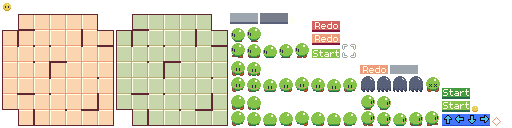
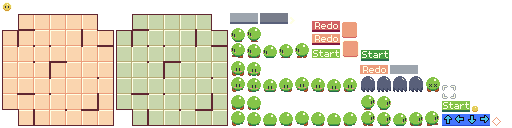
level select init

Changed region(s): [[0.6562, 0.1562, 0.7812, 0.5], [0.8438, 0.6562, 0.9375, 0.7812]]

diff --git a/core/src/main/java/com/distraction/glj9/screens/LevelSelectScreen.java b/core/src/main/java/com/distraction/glj9/screens/LevelSelectScreen.java
@@ -1,0 +1,122 @@
+package com.distraction.glj9.screens;
+
+import com.badlogic.gdx.Gdx;
+import com.badlogic.gdx.Input;
+import com.badlogic.gdx.graphics.Color;
+import com.badlogic.gdx.graphics.g2d.BitmapFont;
+import com.badlogic.gdx.graphics.g2d.GlyphLayout;
+import com.badlogic.gdx.graphics.g2d.TextureRegion;
+import com.badlogic.gdx.utils.Align;
+import com.distraction.glj9.Constants;
+import com.distraction.glj9.Context;
+import com.distraction.glj9.tile.LevelData;
+import com.distraction.glj9.tile.LevelTile;
+
+public class LevelSelectScreen extends Screen {
+
+    private final TextureRegion pixel;
+
+    private final BitmapFont font;
+    private final GlyphLayout titleText;
+
+    private final LevelTile[][] levelTiles;
+    private int maxLevels = LevelData.levels.length;
+    private int page;
+
+    public LevelSelectScreen(Context context) {
+        super(context);
+        pixel = context.getPixel();
+
+        in = new Transition(context, Transition.Type.CHECKERED_IN, 0.5f, () -> ignoreInput = false);
+        in.start();
+        out = new Transition(context, Transition.Type.CHECKERED_OUT, 0.5f);
+
+        font = context.getFont();
+        titleText = new GlyphLayout(font, "Level Select", Constants.WHITE, 0, Align.center, false);
+
+
+        int count = 0;
+        TextureRegion levelTileImage = context.getImage("leveltile");
+        TextureRegion levelTileHighlightImage = context.getImage("leveltileh");
+        levelTiles = new LevelTile[3][4];
+        for (int row = 0; row < levelTiles.length; row++) {
+            for (int col = 0; col < levelTiles[0].length; col++) {
+                LevelTile levelTile = new LevelTile(
+                    context,
+                    getLevelNumber(row, col, 0),
+                    levelTileImage,
+                    levelTileHighlightImage,
+                    this::onLevelSelected
+                );
+                levelTile.x = 12 + 18 * col;
+                levelTile.y = 60 - 18 * row;
+                levelTiles[row][col] = levelTile;
+                count++;
+                if (count > maxLevels) levelTile.setVisibility(false);
+            }
+        }
+    }
+
+    private void onLevelSelected(int level) {
+        out = new Transition(context, Transition.Type.CHECKERED_OUT, 0.5f, () -> {
+            ignoreInput = true;
+            context.sm.replace(new PlayScreen(context, level));
+        });
+        out.start();
+    }
+
+    private int getLevelNumber(int row, int col, int page) {
+        return 1 + col + row * 4 + 12 * page;
+    }
+
+    @Override
+    public void input() {
+        if (ignoreInput) return;
+
+        m.set(Gdx.input.getX(), Gdx.input.getY(), 0);
+        cam.unproject(m);
+        for (int row = 0; row < levelTiles.length; row++) {
+            for (int col = 0; col < levelTiles[0].length; col++) {
+                levelTiles[row][col].onMouseMoved(m.x, m.y);
+            }
+        }
+
+        if (Gdx.input.isButtonJustPressed(Input.Buttons.LEFT)) {
+            for (int row = 0; row < levelTiles.length; row++) {
+                for (int col = 0; col < levelTiles[0].length; col++) {
+                    levelTiles[row][col].onMousePressed();
+                }
+            }
+        }
+    }
+
+    @Override
+    public void update(float dt) {
+        in.update(dt);
+        out.update(dt);
+    }
+
+    @Override
+    public void render() {
+        sb.begin();
+        sb.setProjectionMatrix(cam.combined);
+        sb.setColor(Constants.LEVEL_SELECT_BG);
+        sb.draw(pixel, 0, 0, Constants.WIDTH, Constants.HEIGHT);
+
+        font.draw(sb, titleText, Constants.WIDTH / 2f, Constants.HEIGHT - 8f);
+
+        for (int row = 0; row < levelTiles.length; row++) {
+            for (int col = 0; col < levelTiles[0].length; col++) {
+                levelTiles[row][col].render(sb);
+            }
+        }
+
+        sb.setProjectionMatrix(uiCam.combined);
+        sb.setColor(Color.WHITE);
+        in.render(sb);
+        out.render(sb);
+
+        sb.end();
+    }
+
+}

diff --git a/core/src/main/java/com/distraction/glj9/tile/LevelTile.java b/core/src/main/java/com/distraction/glj9/tile/LevelTile.java
@@ -1,0 +1,74 @@
+package com.distraction.glj9.tile;
+
+import com.badlogic.gdx.graphics.Color;
+import com.badlogic.gdx.graphics.g2d.BitmapFont;
+import com.badlogic.gdx.graphics.g2d.GlyphLayout;
+import com.badlogic.gdx.graphics.g2d.SpriteBatch;
+import com.badlogic.gdx.graphics.g2d.TextureRegion;
+import com.badlogic.gdx.utils.Align;
+import com.distraction.glj9.Constants;
+import com.distraction.glj9.Context;
+import com.distraction.glj9.utils.SimpleCallback;
+import com.distraction.glj9.utils.Utils;
+
+public class LevelTile extends Entity {
+
+    public interface LevelCallback {
+        void callback(int level);
+    }
+
+    private final TextureRegion image;
+    private final TextureRegion highlightImage;
+    private final LevelCallback callback;
+
+    private int level;
+    private boolean hovered;
+
+    private final BitmapFont font;
+    private final GlyphLayout text;
+
+    private boolean visible = true;
+
+    public LevelTile(Context context, int level, TextureRegion image, TextureRegion highlightImage, LevelCallback callback) {
+        super(context);
+        this.image = image;
+        this.highlightImage = highlightImage;
+        this.callback = callback;
+        w = image.getRegionWidth();
+        h = image.getRegionHeight();
+
+        font = context.getFont();
+        text = new GlyphLayout(font, level + "", Constants.WHITE, 0, Align.center, false);
+
+        setLevel(level);
+    }
+
+    public void setLevel(int level) {
+        if (this.level == level) return;
+        this.level = level;
+        text.setText(font, level + "", Constants.WHITE, 0, Align.center, false);
+    }
+
+    public void onMouseMoved(float mx, float my) {
+        hovered = contains(mx, my);
+    }
+
+    public void onMousePressed() {
+        if (!visible) return;
+        if (hovered) callback.callback(level);
+    }
+
+    public void setVisibility(boolean visible) {
+        this.visible = visible;
+    }
+
+    @Override
+    public void render(SpriteBatch sb) {
+        if (!visible) return;
+        sb.setColor(Color.WHITE);
+        if (hovered) Utils.drawCentered(sb, highlightImage, x + 0.5f, y);
+        else Utils.drawCentered(sb, image, x + 0.5f, y);
+        font.draw(sb, text, x, y + 4);
+    }
+
+}

diff --git a/core/src/main/java/com/distraction/glj9/Context.java b/core/src/main/java/com/distraction/glj9/Context.java
@@ -6,7 +6,6 @@ import com.badlogic.gdx.graphics.g2d.BitmapFont;
 import com.badlogic.gdx.graphics.g2d.SpriteBatch;
 import com.badlogic.gdx.graphics.g2d.TextureAtlas;
 import com.badlogic.gdx.graphics.g2d.TextureRegion;
-import com.distraction.glj9.screens.PlayScreen;
 import com.distraction.glj9.screens.ScreenManager;
 
 public class Context {
@@ -32,7 +31,8 @@ public class Context {
         }
 
         sb = new SpriteBatch();
-        sm = new ScreenManager(new PlayScreen(this, 0));
+//        sm = new ScreenManager(new com.distraction.glj9.screens.PlayScreen(this, 0));
+        sm = new ScreenManager(new com.distraction.glj9.screens.LevelSelectScreen(this));
     }
 
     public TextureRegion getImage(String key) {

diff --git a/core/src/main/java/com/distraction/glj9/screens/PlayScreen.java b/core/src/main/java/com/distraction/glj9/screens/PlayScreen.java
@@ -40,6 +40,14 @@ public class PlayScreen extends Screen {
         tileMap.redo();
     }
 
+    private void onBack() {
+        out = new Transition(context, Transition.Type.CHECKERED_OUT, 0.5f, () -> {
+            ignoreInput = true;
+            context.sm.replace(new LevelSelectScreen(context));
+        });
+        out.start();
+    }
+
     @Override
     public void input() {
         if (ignoreInput) return;
@@ -56,6 +64,8 @@ public class PlayScreen extends Screen {
         hud.onMouseMove(uim.x, uim.y);
 
         hud.onMousePressed(Gdx.input.isButtonPressed(Input.Buttons.LEFT));
+
+        if (Gdx.input.isKeyJustPressed(Input.Keys.ESCAPE)) onBack();
     }
 
     @Override

diff --git a/core/src/main/java/com/distraction/glj9/tile/Player.java b/core/src/main/java/com/distraction/glj9/tile/Player.java
@@ -111,8 +111,7 @@ public class Player extends Entity {
         animation.update(dt);
         if (isDead) {
             deadTimer += dt;
-            if (deadTimer >= 1)
-            y = deady + launchInterpolation.apply(deadTimer - 1) * 20;
+            if (deadTimer >= 1) y = deady + launchInterpolation.apply(deadTimer - 1) * 20;
         }
     }
 

diff --git a/core/src/main/java/com/distraction/glj9/tile/TileMap.java b/core/src/main/java/com/distraction/glj9/tile/TileMap.java
@@ -74,7 +74,7 @@ public class TileMap {
     }
 
     private void loadLevel(int level) {
-        data = LevelData.levels[level];
+        data = LevelData.levels[level - 1];
         tiles = flip(data.tiles);
         numRows = tiles.length;
         numCols = tiles[0].length;

diff --git a/core/src/main/java/com/distraction/glj9/Constants.java b/core/src/main/java/com/distraction/glj9/Constants.java
@@ -54,6 +54,7 @@ public class Constants {
         Color.valueOf("29694e") // 35
     };
 
+    public static final Color LEVEL_SELECT_BG = COLORS[13];
     public static final Color DIM_BG = Color.valueOf("00000080");
     public static final Color LEVEL_BG = COLORS[21];
 

diff --git a/core/src/main/java/com/distraction/glj9/tile/Button.java b/core/src/main/java/com/distraction/glj9/tile/Button.java
@@ -9,7 +9,7 @@ import com.distraction.glj9.utils.Utils;
 
 public class Button extends Entity {
 
-    protected final TextureRegion[] images;
+    private final TextureRegion[] images;
     protected final SimpleCallback callback;
 
     protected boolean hovered;
